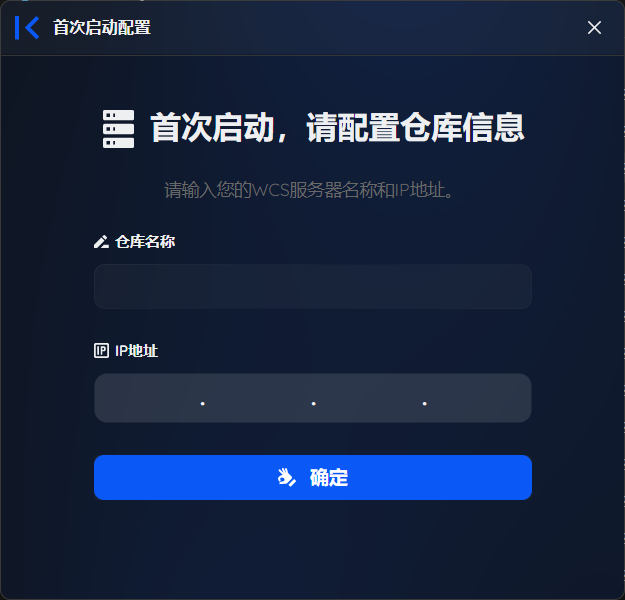
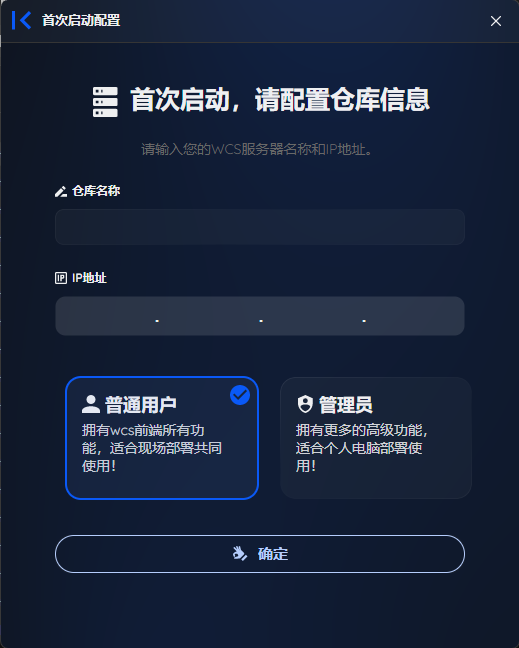
docs：完善首次设置文档说明

diff --git a/docs/guide/simulation/device-simulator.md b/docs/guide/simulation/device-simulator.md
@@ -16,7 +16,7 @@
 
 ## 第二步：启动模拟器
 1. 准备工作做完后，将井松全家桶软件全部启动起来；
-2. 将调试工具配置文件的UserLevel值改为2（这项改动只允许在自己电脑上进行，现场部署的调试工具切勿修改）；
+2. 将调试工具配置文件的UserLevel值改为2，如果已修改过了，请跳过该步骤（这项改动只允许在自己电脑上进行，现场部署的调试工具切勿修改）；
 2. 启动调试工具软件；
 3. 打开设备模拟器菜单；
 4. 点击导入地图json文件按钮，弹出的wcs地址，本地保持默认127.0.0.1即可；
@@ -32,10 +32,15 @@
 2. 点开对应设备，查看设备详情；确保设备状态啥的是否正常；如果不正常，需要检查WCS相关配置是否正确；
 3. 正常的话，就开始按业务需求进行测试吧；
 
+::: tip 测试顺序小提示
+- 模拟测试一般是先下手工任务测试，手工任务主要测试的是地图和算法配置以及wcs相关配置是否存在问题；
+- 手工任务测试完成后，再测试工艺流程，通过触发工艺来产生对应的任务；
+:::
+
 
 ## 常见问题解答
 
-1. 输送线货位残留占位问题？
+### 1. 输送线货位残留占位问题？
 
 我们在使用的过程中，肯定会遇到输线货位占位问题；当我们给输送线下达任务的时候，当任务结束后，就会在任务的终点留下一个占位；这个占位会导致后续的任务无法通过这个位置，从而导致任务无法执行；如下图所示：
 
@@ -48,4 +53,11 @@
 上图中，我们可以通过wcs前端的对应输送线设备的详情页面中，点击货位状态栏，选中对应的货位号1085，右键弹出“清除占位”选项，点击后即可清除模拟器中该货位的占位状态；后续的任务即可正常执行了；
 
 
+### 2. 我该如何触发工艺？
+- 首先取决于我们所配置的工艺，如果你得工艺是通过PDA或者其他接口来触发，那么直接打开PDA或者相关接口调试工具（swagger等）来触发即可！比如空托上架工艺，直接在pda前端页面使用该功能触发即可；
+![空托上架工艺演示](/images/simulation/image-7.png)
+
+- 如果我们工艺配置的是需要通过业务占位来触发，也就是通过PLC触发！这时我们可以来到模拟器界面，选择工艺触发源所配置的输送线设备，点击触发源选项卡，如下图：
+![模拟器触发业务占位](/images/simulation/image-8.png)
+上图中，我们看到的既是当前输送线所绑定的工艺触发源，我们根据自身需要选择对应的工艺，右键即可弹出触发工艺按钮；点击即可弹出触发次数和一些预填参数配置，根据自身需求进行设置；如下图：
 

diff --git a/docs/guide/base-setting.md b/docs/guide/base-setting.md
@@ -9,6 +9,7 @@
 
 - 仓库名称：根据当前部署的现场来命名，比如“成品库”、“小件库”和“恒鑫5号库”等等，总之就是让人能够一眼看懂的；
 - IP地址：注意这里输入的地址是wcs服务器的ip，有的现场wcs是单独的服务器，切勿和wms或前端的访问IP搞混淆了，如果部署在wcs服务器上，输入“127.0.0.1”即可；
+- 用户权限选择：根据当前用户的需求，选择“管理员（更多高级功能）”或“普通用户（基本的WCS前端功能）”，推荐个人电脑部署使用选择“管理员”，在现场工控机和服务器部署的，建议选择“普通用户”，或者给其他非内部用户使用的都选择“普通用户”；
 
 ## 主界面布局
 
